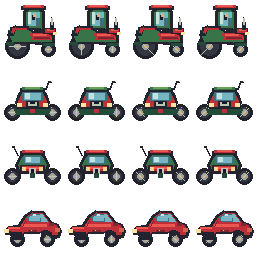
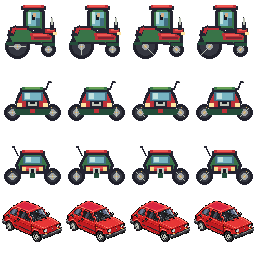
feat(luna): B07 restore previous red car art into atlas generator
- gen/car_red_ba64220.png: byte-exact provenance copy of git show
  ba64220:docs/img/car_red.png (128x87, old blocky crimson car)
- gen/build_vehicles_pixel.py: old_car_tile() composer (NEAREST downscale to
  60x41 @ (2,9), alpha-composite into row-3 tiles); hatchback car_sprite()
  retired as documented stub
- docs/img/vehicles.png regenerated deterministically (4 identical car
  frames, frame 0 sampled by drawCar); vehicles.json byte-identical
- test/animals_test.py: B07 snapshot + in-session drawCar probe + desktop/
  mobile screenshots; behavior untouched (COST 10, RIDE_SECONDS 15, ride
  speed/collisions, cell mapping row 3 fixed)

Changed region(s): [[0.0, 0.7812, 1.0, 0.9688]]

diff --git a/test/animals_test.py b/test/animals_test.py
@@ -31,6 +31,40 @@ tractor_frames = [VEHICLE_IMAGE.crop((i * 64, 0, (i + 1) * 64, 64)).tobytes() fo
 assert len(set(tractor_frames)) == 4, "tractor wheel frames must all show rotation"
 assert {"tractor_side", "tractor_front", "tractor_back", "car"} <= set(VEHICLE_META["rows"])
 
+# ---- B07: restore the previous red car art (only), atlas cell mapping unchanged.
+# The renderer samples vehicles.png cell (0, row 3) frame 0 via drawCar; the old
+# blocky crimson car lives only as docs/img/car_red.png @ commit ba64220 (128x87),
+# which gen/build_vehicles_pixel.py pastes into every row-3 tile (NEAREST 60x41 at
+# offset (2,9)). All four car frames stay identical: drawCar reads frame 0 only and
+# the old art is a static side view - keep the mapping and behavior untouched.
+assert list(VEHICLE_META["rows"]) == ["tractor_side", "tractor_front", "tractor_back", "car"], VEHICLE_META["rows"]
+assert VEHICLE_META["rows"]["car"]["row"] == 3 and VEHICLE_META["rows"]["car"]["frames"] == ["idle1", "idle2", "idle3", "idle4"]
+B07_CAR_SRC = ROOT / "gen/car_red_ba64220.png"
+old_car = Image.open(B07_CAR_SRC).convert("RGBA")
+assert old_car.size == (128, 87), old_car.size  # provenance: git ba64220:docs/img/car_red.png
+expected_cell = Image.new("RGBA", (64, 64), (0, 0, 0, 0))
+expected_cell.alpha_composite(old_car.resize((60, 41), Image.NEAREST), (2, 9))
+car_frames = [VEHICLE_IMAGE.crop((i * 64, 3 * 64, (i + 1) * 64, 4 * 64)).tobytes() for i in range(4)]
+assert len(set(car_frames)) == 1, "B07: car frames must stay identical (drawCar samples frame 0 only)"
+assert car_frames[0] == expected_cell.tobytes(), "B07: row-3 frame 0 does not match the restored car_red (ba64220) art"
+
+
+def _b07_sig(cell_bytes):
+    teal = crimson = n = 0
+    for i in range(0, len(cell_bytes), 4):
+        r, g, b, a = cell_bytes[i], cell_bytes[i + 1], cell_bytes[i + 2], cell_bytes[i + 3]
+        if a > 128:
+            n += 1
+            if abs(r - 0x78) < 40 and abs(g - 0xB5) < 40 and abs(b - 0xC3) < 40:
+                teal += 1  # the new hatchback's glass panes (#78b5c3 family)
+            if r > 120 and g < 110 and b < 110:
+                crimson += 1
+    return teal, crimson, n
+
+
+_b07_teal, _b07_crimson, _b07_n = _b07_sig(car_frames[0])
+assert _b07_teal < 30 and _b07_crimson > 500 and _b07_n > 600, ("B07 cell signature", _b07_teal, _b07_crimson, _b07_n)
+
 # Fixed seed so every run boots the exact same game (and, for B01, the exact
 # same spawn positions). Reproduced by mulberry32-style LCG.
 SEED_JS = """
@@ -547,9 +581,90 @@ with sync_playwright() as p:
         im.crop((x0, y0, x1, y1)).save(SHOTS_DIR / f"b03_{kind}_crop.png")
     print("b03 shots:", sorted(p.name for p in SHOTS_DIR.glob("b03_*.png")))
 
+    # ---- B07: car render contract at runtime - drawCar samples vehicles.png
+    # cell (0, row 3) frame 0 and draws it 60x38 map units (behavior untouched),
+    # plus desktop/mobile visual evidence of the restored car in-game.
+    B07_SHOTS_DIR = Path(os.environ.get("HERMES_SCRATCH", r"C:\Users\Lenovo\AppData\Local\hermes\cache\scratch")) / "chlopkow-b07-impl"
+    B07_SHOTS_DIR.mkdir(parents=True, exist_ok=True)
+    b07_car = page.evaluate("""() => {
+      const A = window.ARK, W = window.__worldLife;
+      const canvas = document.querySelector('canvas');
+      const cctx = canvas.getContext('2d');
+      const car = W.cars[0], zoom = A.zoom;
+      const saved = { a: W.animals.slice(), t: W.tractors.map(t => ({ x: t.x, y: t.y })) };
+      W.animals.length = 0;
+      for (const t of W.tractors) { t.x += 9000; t.y += 9000; }
+      const ox = canvas.width / 2 - car.x * zoom, oy = canvas.height / 2 - car.y * zoom;
+      const S = (x, y) => [ox + x * zoom, oy + y * zoom];
+      let cap = null;
+      for (const h of A.HOOKS.world) {
+        const c = [];
+        h((b, f) => c.push({ b, f }), S, (x, y) => Math.hypot(x - car.x, y - car.y) < 220);
+        if (c.length === 1 && Math.abs(c[0].b - car.y) < 1) { cap = c; break; }
+      }
+      if (!cap) throw new Error('B07: car world hook not found');
+      const origDraw = cctx.drawImage;
+      let last = null;
+      cctx.drawImage = function (img, sx, sy, sw, sh, dx, dy, dw, dh) {
+        if (dw !== undefined) last = { dw, dh, sx, sy, sw, sh };
+        return origDraw.apply(this, arguments);
+      };
+      try { cap[0].f(); } finally { cctx.drawImage = origDraw; }
+      W.animals.length = 0; W.animals.push(...saved.a);
+      W.tractors.forEach((t, i) => { t.x = saved.t[i].x; t.y = saved.t[i].y; });
+      return { dw: last ? last.dw : null, dh: last ? last.dh : null, sx: last ? last.sx : null, sy: last ? last.sy : null, sw: last ? last.sw : null, sh: last ? last.sh : null, zoom };
+    }""")
+    assert b07_car["dw"] is not None, "B07: car not drawn through the atlas path"
+    assert b07_car["sw"] == 64 and b07_car["sh"] == 64 and b07_car["sx"] == 0 and b07_car["sy"] == 192, ("B07: atlas cell mapping changed", b07_car)
+    assert abs(b07_car["dw"] / b07_car["zoom"] - 60) <= 1 and abs(b07_car["dh"] / b07_car["zoom"] - 38) <= 1, ("B07: car draw size changed", b07_car)
+    # desktop visual evidence: park the player just under the first car so the
+    # camera centers it (camera follows the player; car at screen mid-width)
+    page.evaluate("""() => {
+      const A = window.ARK, W = window.__worldLife;
+      const c = W.cars[0];
+      const put = (dx, dy) => { const x = Math.round(c.x + dx), y = Math.round(c.y + dy); A.teleport(x, y); };
+      const free = (x, y) => x > 60 && x < A.MAP.w - 60 && y > 130 && y < A.MAP.h - 60 && !A.blocked(x, y);
+      if (free(c.x, c.y + 18)) put(0, 18);
+      else if (free(c.x + 160, c.y)) put(160, 0);
+      else put(-160, 0);
+    }""")
+    page.wait_for_timeout(450)
+    page.screenshot(path=str(B07_SHOTS_DIR / "b07_car_desktop.png"))
+    # mobile evidence: same boot flow in a 390x844 viewport
+    mob = browser.new_page(viewport={"width": 390, "height": 844})
+    mob_errors = []
+    mob.on("pageerror", lambda error: mob_errors.append(str(error)))
+    mob.add_init_script(SEED_JS)
+    mob.goto(PINNED_URL)
+    mob.wait_for_function("window.ARK && window.__game", timeout=30000)
+    mob.evaluate("localStorage.clear()")
+    mob.reload()
+    mob.wait_for_function("window.ARK && window.__game", timeout=30000)
+    mob.keyboard.press("KeyN")
+    mob.locator("#player-name-input").fill("B07")
+    mob.locator("#player-name-submit").click()
+    mob.wait_for_function("__game.scene === 'play' && window.__worldLife && __worldLife.vehicleSpritesLoaded", timeout=30000)
+    mob.evaluate("""() => {
+      const A = window.ARK, W = window.__worldLife;
+      const c = W.cars[0];
+      const put = (dx, dy) => { const x = Math.round(c.x + dx), y = Math.round(c.y + dy); A.teleport(x, y); };
+      const free = (x, y) => x > 60 && x < A.MAP.w - 60 && y > 130 && y < A.MAP.h - 60 && !A.blocked(x, y);
+      if (free(c.x, c.y + 18)) put(0, 18);
+      else if (free(c.x + 160, c.y)) put(160, 0);
+      else put(-160, 0);
+    }""")
+    mob.wait_for_timeout(450)
+    mob.screenshot(path=str(B07_SHOTS_DIR / "b07_car_mobile.png"))
+    assert not mob_errors, mob_errors
+    mob.close()
+    print("b07 shots:", sorted(p.name for p in B07_SHOTS_DIR.glob("b07_*.png")))
+
     print("animals: PASS", {"species": len(EXPECTED_SPECIES), "total": 81, "perKind": registry["summary"],
                             "seededRebootStable": True, "vehicleRows": len(VEHICLE_META["rows"]),
                             "b03": {"mouseQuarterW": mouse_r["dw"] / mouse_r["zoom"], "mouseQuarterH": mouse_r["dh"] / mouse_r["zoom"],
                                     "noShadow": [k for k in ("chicken", "mouse", "bird") if b03[k]["shadowCalls"] == 0],
-                                    "atlasPath": True, "fallbackPath": True}})
+                                    "atlasPath": True, "fallbackPath": True},
+                            "b07": {"carCell": (b07_car["sx"], b07_car["sy"], b07_car["sw"], b07_car["sh"]),
+                                    "drawSize": (round(b07_car["dw"] / b07_car["zoom"]), round(b07_car["dh"] / b07_car["zoom"])),
+                                    "restored": True}})
     browser.close()

diff --git a/gen/build_vehicles_pixel.py b/gen/build_vehicles_pixel.py
@@ -69,18 +69,10 @@ def back_tractor(d, phase):
 
 
 def car_sprite(d, phase):
-    # Side-profile Polski hatchback, deliberately brighter and more detailed than the old blocks.
-    wheel(d,17,47,7,phase); wheel(d,47,47,7,phase)
-    d.polygon([(4,39),(8,34),(18,32),(24,23),(31,18),(43,19),(51,29),(58,32),(61,39),(59,45),(53,47),(51,41),(45,39),(39,41),(24,41),(21,47),(12,47),(10,42),(5,42)],fill=C['ink'])
-    d.polygon([(7,38),(11,35),(20,34),(26,25),(32,20),(42,21),(49,30),(56,33),(58,38),(57,42),(52,42),(50,39),(45,37),(40,39),(24,39),(21,42),(13,42),(11,39)],fill=C['red'])
-    d.polygon([(26,25),(32,21),(41,22),(47,30),(39,29),(29,29)],fill=C['glass_s'])
-    d.polygon([(29,25),(33,22),(39,23),(39,28),(29,28)],fill=C['glass']); d.rectangle((33,22,35,23),fill=C['glass_l'])
-    d.polygon([(40,22),(42,22),(47,29),(41,29)],fill=C['glass'])
-    d.rectangle((8,35,19,36),fill=C['red_l']); d.rectangle((22,32,46,34),fill=C['red_l'])
-    d.rectangle((4,37,8,40),fill=C['light']); d.rectangle((55,36,59,39),fill="#d95d50")
-    d.rectangle((28,38,36,39),fill=C['red_s']); d.point((31,38),fill=C['metal'])
-    d.rectangle((12,40,21,42),fill=C['ink']); d.rectangle((41,40,51,42),fill=C['ink'])
-    d.line((25,29,22,34),fill=C['red_s'],width=1); d.rectangle((49,31,53,33),fill=C['red_s'])
+    # B07: removed - the previous red car art (git ba64220:docs/img/car_red.png)
+    # is restored by old_car_tile() below; keep the old name in the rows list so
+    # the atlas layout (row 3 = car, frames idle1-4) and metadata stay unchanged.
+    raise NotImplementedError("car sprite is composed from restored art in main()")
 
 
 def main():
@@ -88,10 +80,34 @@ def main():
     atlas=Image.new("RGBA",(CELL*4,CELL*len(rows)),(0,0,0,0))
     for row,(name,draw_fn,view) in enumerate(rows):
         for frame in range(4):
-            tile=Image.new("RGBA",(CELL,CELL),(0,0,0,0)); draw_fn(ImageDraw.Draw(tile),frame); atlas.alpha_composite(tile,(frame*CELL,row*CELL))
+            if name == "car":
+                # B07: the car row is composed from the restored previous red-car
+                # art (old_car_tile), not drawn by the retired hatchback car_sprite.
+                tile = old_car_tile()
+            else:
+                tile=Image.new("RGBA",(CELL,CELL),(0,0,0,0)); draw_fn(ImageDraw.Draw(tile),frame)
+            atlas.alpha_composite(tile,(frame*CELL,row*CELL))
     atlas.save(OUT,optimize=True)
     meta={"cell":CELL,"rows":{name:{"row":i,"view":view,"frames":["wheel1","wheel2","wheel3","wheel4"] if name.startswith("tractor") else ["idle1","idle2","idle3","idle4"]} for i,(name,_,view) in enumerate(rows)}}
     META.write_text(json.dumps(meta,indent=1)+"\n",encoding="utf-8")
     print(f"vehicle pixel atlas: {atlas.width}x{atlas.height}, rows={','.join(x[0] for x in rows)}")
+
+# B07: previous red car art restored from git commit ba64220 (docs/img/car_red.png,
+# 128x87 RGBA - the only surviving copy of the old blocky crimson car). The renderer
+# samples cell (0, row 3) frame 0 of vehicles.png and squashes the 64x64 cell to
+# 60x38 map units in drawCar, so the art is NEAREST-scaled (matching the old canvas
+# imageSmoothingEnabled=false draw) to a 60x41 footprint and pasted at (2,9): the
+# old car fills the cell like the hatchback it replaces, with its keyed-transparent
+# background intact. All four frames are byte-identical on purpose - drawCar reads
+# frame 0 only and the old car is a static view (the game draws its own shadow).
+CAR_SRC = ROOT / "gen/car_red_ba64220.png"
+CAR_PASTE = (2, 9)
+CAR_SIZE = (60, 41)
+
+def old_car_tile():
+    art = Image.open(CAR_SRC).convert("RGBA").resize(CAR_SIZE, Image.NEAREST)
+    tile = Image.new("RGBA", (CELL, CELL), (0, 0, 0, 0))
+    tile.alpha_composite(art, CAR_PASTE)
+    return tile
 
 if __name__=="__main__": main()
